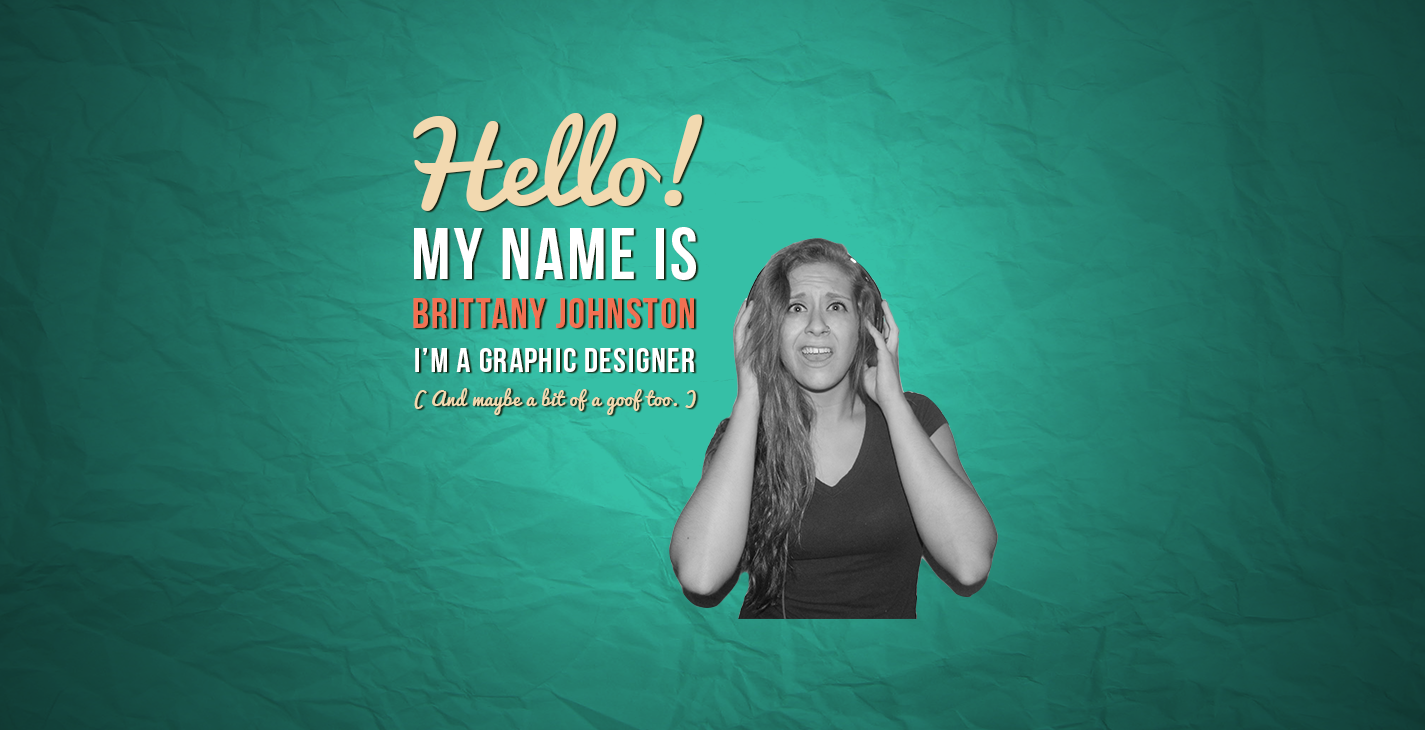
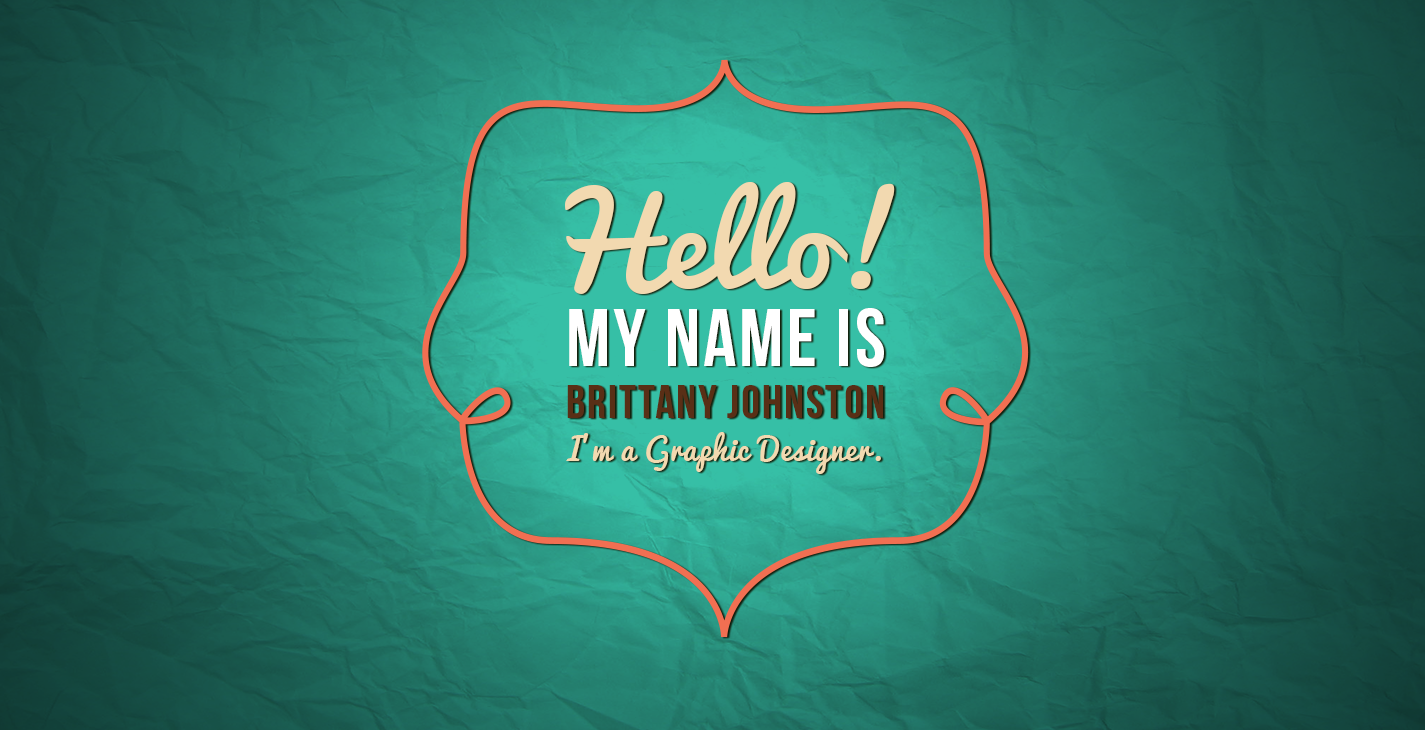
font sizes

Changed region(s): [[0.2779, 0.0904, 0.7102, 0.874], [0.6793, 0.1808, 0.7102, 0.4219], [0.7102, 0.4219, 0.7411, 0.5425]]

diff --git a/brittanyjohnston/index.css b/brittanyjohnston/index.css
@@ -74,10 +74,10 @@ color:white;
 }
 
 h2 {
-font-family: 'BebasNeueRegular';
-padding:170px 20px 60px 20px;
+font-family: 'PacificoRegular';
+padding:230px 20px 60px 20px;
 letter-spacing: 2px;
-font-size:6em;
+font-size:3em;
 text-shadow:2px 2px 2px rgb(89,47,22);
 color:rgb(242,112,82);
 background-image:url('Images/workheadline.png');
@@ -87,25 +87,18 @@ background-position:center;
 
 h3
 {
-font-family: 'PacificoRegular';
-font-size:1.25em;
-letter-spacing:2px;
-text-shadow:2px 2px 2px rgb(89,47,22);
-color:white;
-padding:200px 20px 40px 20px;
-background-image:url('Images/topofaboutme.png');
-background-repeat:no-repeat;
-background-position:center;
+font-family: 'Archivo Narrow', sans-serif;
+font-size:1.75em;
+color:rgb(89,47,22);
+padding:0px 0px 40px 0px;
 }
 
 h4
 {
-font-family: 'BebasNeueRegular';
-letter-spacing: 2px;
-font-size:2em;
-text-shadow:2px 2px 2px rgb(89,47,22);
-color:white;
-padding:0px 0px 60px 0px;
+font-family: 'Archivo Narrow', sans-serif;
+font-size:1em;
+color:rgb(89,47,22);
+padding:0px 0px 40px 0px;
 }
 
 p 
@@ -114,7 +107,7 @@ margin-top:2px;
 font-family: 'Archivo Narrow', sans-serif;
 font-size:.75em;
 line-height:30px;
-color:black;
+color:rgb(89,47,22);
 }
 
 a {text-decoration:none;}
@@ -200,7 +193,7 @@ padding:30px 15px 30px 15px;
 	
 #DesignWork 
 {
-padding:160px 0px 160px 0px;
+padding:140px 0px 160px 0px;
 width:100%;
 background-color:rgb(242,217,176);
 height:800px;
@@ -225,7 +218,7 @@ padding:0px;
 #AboutMeSection
 {
 margin:0 auto;
-padding:160px 0px 160px 0px;
+padding:280px 0px 160px 0px;
 text-align:center;
 width:60%;
 background-color:rgb(242,217,176);
@@ -238,16 +231,13 @@ background-color:rgb(242,217,176);
 margin-top:0px;
 font-family: 'Archivo Narrow', sans-serif;
 font-size:1.75em;
-line-height:50px;
-color:black;
+line-height:40px;
 padding:0px 40px 40px 40px;
 width:100%;
 text-align:left;
 }
 
 #firstsentence {color:rgb(54,191,166);
-				font-family: 'PacificoRegular';
-				font-size:1em;
 				}
 				
 #FindMe
@@ -261,7 +251,6 @@ background-position:center;
 
 #FindMeSection
 {
-
 text-align:center;
 padding:160px 0px 160px 0px;
 width:100%;

diff --git a/brittanyjohnston/index.html b/brittanyjohnston/index.html
@@ -80,17 +80,17 @@
 
    
     <div id="AboutMeSection">
+     <br>
     <div id="AboutMe">
-    <div id="firstsentence"><br>I put a lot of energy into everything I do, even beyond being a designer.<br></div>
-    <p>	
+   <h4>I put a lot of energy into everything I do, even beyond being a designer.</h4>
+    <p>
     I've been creating as for as long as I can remember and ever since then have made it essential to my everyday life. 
     Currently, I'm a junior graphic design major at Massachusetts College of Art and Design. 
     I'm highly involved in all my classes and like learn as much as I can from the world around me to improve my work. I often draw inspiration from my illustrations and other doodles I 
-    make in my sketchbooks. It is one of my beliefs that illustration and graphic design go hand-in-hand and for that reason I practice both quite frequently! 
+    make in my sketchbooks. It is one of my beliefs that illustration and graphic design go hand-in-hand and for that reason I practice both quite frequently. 
     <br>
     <br>
-    When I'm not going crazy working on new projects, you can usually find me monkeying around with my friends, catching up on the latest T.V. show, 
-    going for a run or playing my guitar.
+    When I'm not going crazy working on new projects, you can usually find me monkeying around with my friends, catching up on the latest T.V. show, or playing my guitar.
     <p>
     
     
@@ -100,7 +100,7 @@
      
 <article id="Design">
 <div id="DesignWork">
-<h2>Work</h2>
+<h2>Here's some stuff I've made</h2>
 
 
 <div id="Row1">
@@ -128,7 +128,7 @@
 
    <div id="FindMe">
    
-     <h4>Want to know more?</h4>
+     <h3>Want to know more?</h3>
      <br>
      <p>Catch up with me through one of these!</p>
     <a href="mailto:bejohnston@massart.edu"><img id="Email" src="Images/mailbutton.png"></a>
